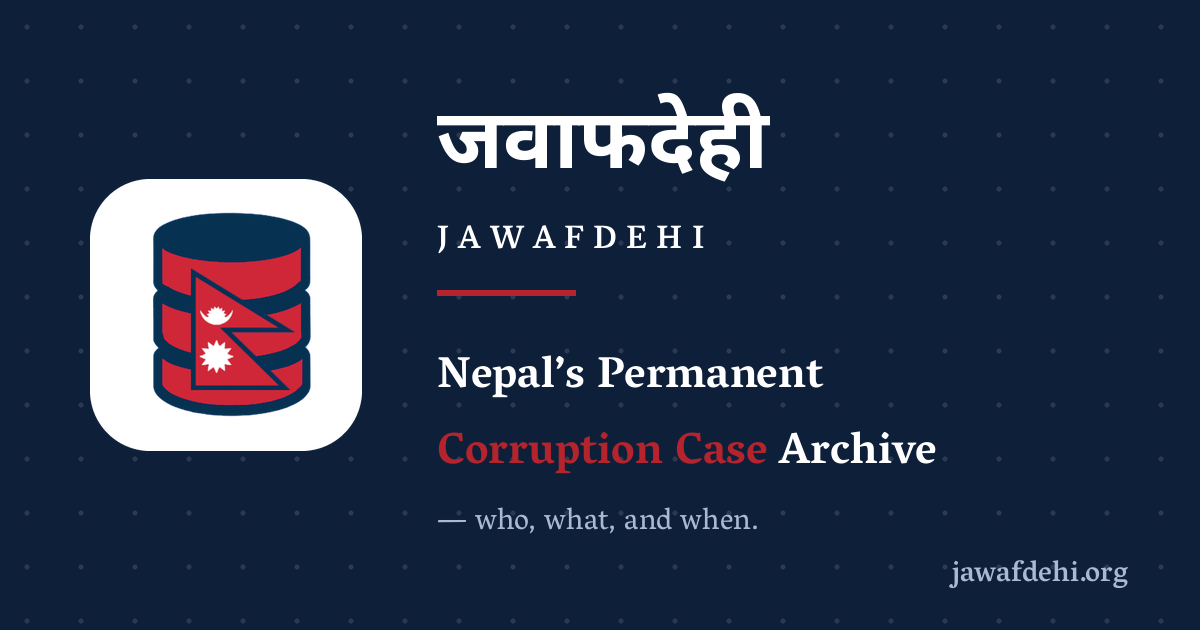
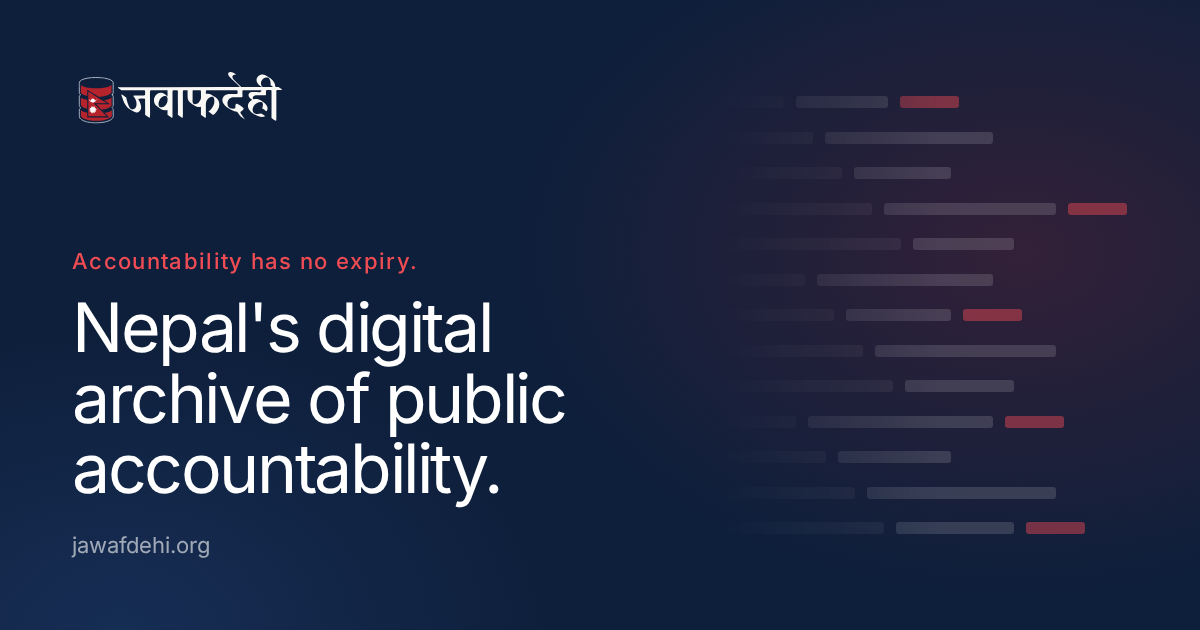
feat(brand): a new social card, and the newsletter prompt in the site's style
- social-preview.png (the share card every page falls back to) is redrawn as
  the new home hero: navy, the 'Accountability has no expiry.' eyebrow, the
  headline in Inter, the record lines, jawafdehi.org. Same name and 1200x630.
- The newsletter prompt: a mist header with the wordmark and a left-aligned
  display title, the form on white, regular weights throughout; the success
  state loses its bold. The consent line no longer reads 'Privacy Policy .'
  (no space before bare punctuation; Nepali keeps its space).

diff --git a/src/components/home/newsletter-signup-modal.tsx b/src/components/home/newsletter-signup-modal.tsx
@@ -9,6 +9,7 @@ import {
   DialogHeader,
   DialogTitle,
 } from "@/components/ui/dialog";
+import { ShaderBackdrop } from "@/components/brand-shaders/shader-backdrop";
 import { NewsletterForm } from "@/components/home/newsletter-form";
 import { getNewsletterPromptState, setNewsletterPromptState } from "@/lib/newsletter";
 
@@ -99,30 +100,31 @@ export function NewsletterSignupModal() {
 
   return (
     <Dialog open={open} onOpenChange={handleOpenChange}>
-      <DialogContent className="max-w-md gap-6 p-8 text-center sm:rounded-2xl">
-        <div className="flex items-center justify-center gap-2">
-          <img src="/favicon.png" alt="" aria-hidden="true" className="h-8 w-8" />
-          <span className="text-lg font-bold text-foreground">Jawafdehi</span>
+      {/* The site's light card: a mist header carrying the wordmark and the
+          ask in the display face, left-aligned like every other page head;
+          the form on plain white under it. */}
+      <DialogContent className="max-w-md gap-0 overflow-hidden p-0 sm:rounded-[28px]">
+        <div className="relative isolate px-6 pb-6 pt-7 sm:px-8 sm:pt-8">
+          <div aria-hidden="true" className="absolute inset-0 -z-10 [mask-image:linear-gradient(to_bottom,#000_55%,transparent)]">
+            <ShaderBackdrop design="mist" />
+          </div>
+          <img src="/assets/logo.svg" alt="Jawafdehi" className="h-8 w-auto" />
+          <DialogHeader className="mt-6 space-y-3 text-left sm:text-left">
+            <DialogTitle className="font-home-display text-[1.75rem] leading-[1.1] text-primary sm:text-[2rem]">
+              {t("newsletter.modal.title")}
+            </DialogTitle>
+            <DialogDescription className="text-base leading-7 text-muted-foreground">
+              {t("newsletter.modal.description")}
+            </DialogDescription>
+          </DialogHeader>
         </div>
 
-        <DialogHeader className="space-y-3 text-center sm:text-center">
-          <DialogTitle className="text-2xl font-extrabold leading-tight tracking-normal md:text-3xl">
-            {t("newsletter.modal.title")}
-          </DialogTitle>
-          <DialogDescription className="mx-auto max-w-sm text-sm leading-6">
-            {t("newsletter.modal.description")}
-          </DialogDescription>
-        </DialogHeader>
-
-        <NewsletterForm
-          compact
-          submitLabel={t("newsletter.modal.submit")}
-          className="mx-auto w-full max-w-sm"
-        />
-
-        <p className="mx-auto max-w-sm text-xs leading-5 text-muted-foreground">
-          {t("newsletter.modal.disclaimer")}
-        </p>
+        <div className="px-6 pb-7 sm:px-8 sm:pb-8">
+          <NewsletterForm compact submitLabel={t("newsletter.modal.submit")} className="w-full" />
+          <p className="mt-5 text-sm leading-6 text-muted-foreground">
+            {t("newsletter.modal.disclaimer")}
+          </p>
+        </div>
       </DialogContent>
     </Dialog>
   );

diff --git a/src/components/home/newsletter-form.tsx b/src/components/home/newsletter-form.tsx
@@ -77,7 +77,7 @@ export function NewsletterForm({
         <div>
           <p
             className={cn(
-              "mx-auto max-w-md text-base font-bold leading-7 text-foreground",
+              "mx-auto max-w-md text-lg leading-7 text-primary",
               inverted && "text-primary-foreground",
             )}
           >
@@ -85,7 +85,7 @@ export function NewsletterForm({
           </p>
           <p
             className={cn(
-              "mx-auto mt-2 max-w-md text-sm font-semibold leading-6 text-muted-foreground",
+              "mx-auto mt-2 max-w-md text-base leading-7 text-muted-foreground",
               inverted && "text-primary-foreground/80",
             )}
           >
@@ -274,7 +274,10 @@ export function NewsletterForm({
             )}
           >
             {t("newsletter.form.privacyLink")}
-          </Link>{" "}
+          </Link>
+          {/* A space before a word ("…सँग सहमत छु।"), none before bare
+              punctuation, or English reads "Privacy Policy ." */}
+          {/^[.,;:!?।]/.test(t("newsletter.form.privacySuffix")) ? "" : " "}
           {t("newsletter.form.privacySuffix")}
         </Label>
       </div>

diff --git a/tests/layout/asset-weight.test.ts b/tests/layout/asset-weight.test.ts
@@ -183,7 +183,7 @@ describe('served image weight', () => {
       ['src/components/data-sources.tsx', '/assets/ciaa.webp'],
       ['src/components/data-sources.tsx', '/assets/cib.webp'],
       ['src/lib/case-images.ts', '/assets/placeholder.webp'],
-      ['src/components/home/newsletter-signup-modal.tsx', '/favicon.png'],
+      ['src/components/home/newsletter-signup-modal.tsx', '/assets/logo.svg'],
     ];
     const broken = refs.filter(([file, ref]) => {
       const referenced = readFileSync(resolve(ROOT, file), 'utf8').includes(ref);
